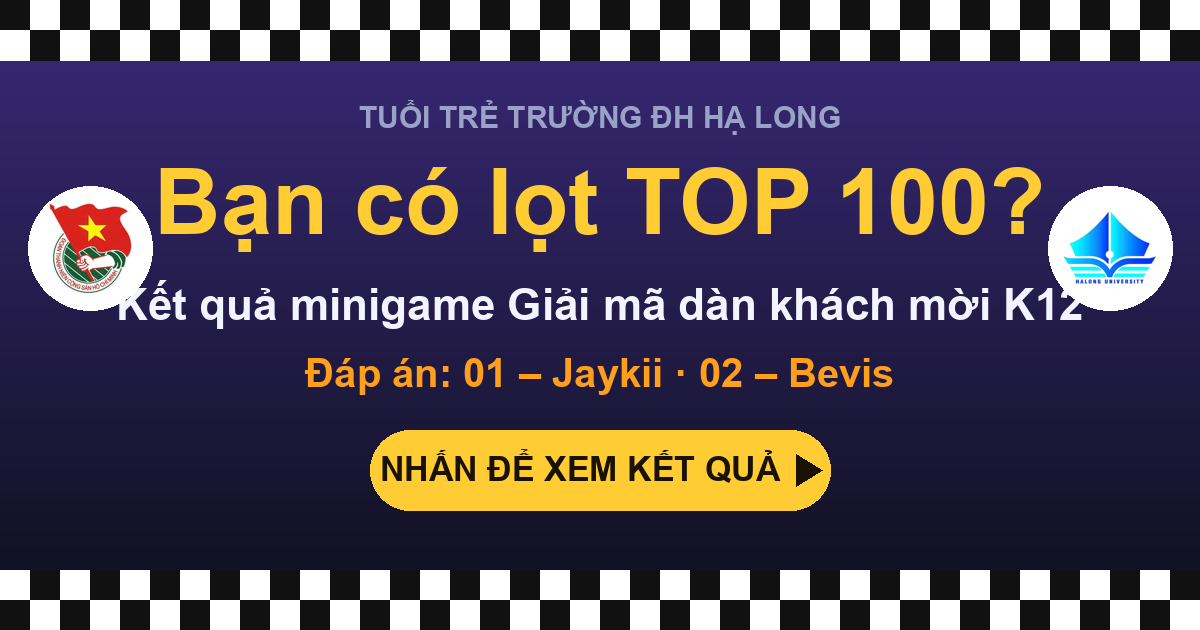
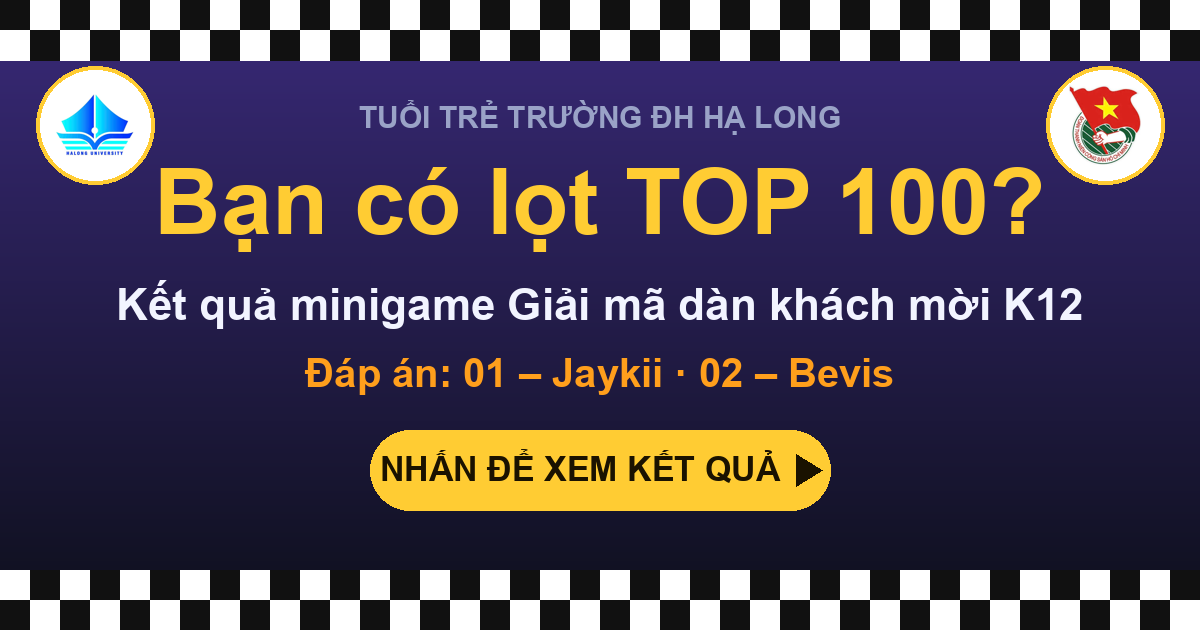
update

Changed region(s): [[0.8633, 0.0905, 0.9867, 0.5127], [0.0, 0.0905, 0.1542, 0.5127]]

diff --git a/app.js b/app.js
@@ -78,7 +78,7 @@
       ul.innerHTML = `<li class="empty">Không tìm thấy “${esc(q)}”. Thử nhập đúng tên Facebook hoặc dán link trang cá nhân nhé.</li>`;
       return;
     }
-    if (list.length === 1) { ul.innerHTML = ""; runRace(list[0]); return; }
+    if (list.length === 1) { ul.innerHTML = ""; $("#q").value = ""; runRace(list[0]); return; }
     ul.innerHTML = list.map((p) =>
       `<li><button type="button" data-slug="${esc(p.slug)}">${esc(p.name)} <small>fb.com/${esc(p.slug)}</small></button></li>`
     ).join("");
@@ -139,7 +139,6 @@
   async function runRace(p) {
     const token = ++raceToken;
     const alive = () => token === raceToken;
-    history.replaceState(null, "", `?u=${encodeURIComponent(p.slug)}`);
 
     $("#boardCard").classList.add("hidden");
     $("#result").innerHTML = "";
@@ -279,6 +278,16 @@
     })(performance.now());
   }
 
+  function showFriend(p) {
+    const verdict = p.rank && p.rank <= DATA.winners
+      ? `đã lọt <b>Top ${DATA.winners}</b> với hạng <b>#${p.rank}</b> 🏆`
+      : p.rank ? `về hạng <b>#${p.rank}</b>, chỉ tiếc chưa lọt Top ${DATA.winners}` : "đã thử vận may";
+    const box = $("#friend");
+    box.innerHTML = `<b>${esc(p.name)}</b> ${verdict}. Đến lượt bạn – nhập tên của bạn bên dưới!
+      <button type="button" class="ghost" data-slug="${esc(p.slug)}">Xem hiệu ứng của ${esc(p.name)}</button>`;
+    box.classList.remove("hidden");
+  }
+
   // ---------- Sự kiện ----------
   function bind() {
     $("#searchForm").addEventListener("submit", (e) => {
@@ -288,11 +297,15 @@
     });
     $("#matches").addEventListener("click", (e) => {
       const b = e.target.closest("button[data-slug]");
-      if (b) { $("#matches").innerHTML = ""; runRace(bySlug.get(b.dataset.slug)); }
+      if (b) { $("#matches").innerHTML = ""; $("#q").value = ""; runRace(bySlug.get(b.dataset.slug)); }
     });
     $("#board").addEventListener("click", (e) => {
       const li = e.target.closest("li[data-slug]");
       if (li) runRace(bySlug.get(li.dataset.slug));
+    });
+    $("#friend").addEventListener("click", (e) => {
+      const b = e.target.closest("button[data-slug]");
+      if (b) runRace(bySlug.get(b.dataset.slug));
     });
     $("#boardFilter").addEventListener("input", (e) => renderBoard(e.target.value));
     $("#result").addEventListener("click", async (e) => {
@@ -324,12 +337,13 @@
     renderStats();
     renderPodium();
 
-    // Link kết quả riêng (?u=<fb id>) hoặc ?q=<tên>: điền sẵn tên và chạy hiệu ứng
-    const params = new URLSearchParams(location.search);
-    const u = params.get("u");
-    const q = params.get("q");
-    const me = u && bySlug.get(u.toLowerCase());
-    if (me) { $("#q").value = me.name; runRace(me); }
-    else if (q) { $("#q").value = q; showMatches(search(q), q); }
+    // Mở từ link bạn bè chia sẻ (?u=<fb id>): chỉ giới thiệu kết quả của họ,
+    // ô tên luôn để trống để người vào tự nhập tên mình.
+    const u = new URLSearchParams(location.search).get("u");
+    const friend = u && bySlug.get(u.toLowerCase());
+    if (friend) showFriend(friend);
+    if (location.search) history.replaceState(null, "", location.pathname);
+    $("#q").value = "";
+    $("#q").focus({ preventScroll: true });
   })();
 })();

diff --git a/index.html b/index.html
@@ -28,8 +28,8 @@
   <header class="hero">
     <div class="flag-strip" aria-hidden="true"></div>
     <div class="logos">
-      <img src="img/logo-doan.png" alt="Đoàn TNCS Hồ Chí Minh" width="72" height="72">
       <img src="img/logo-truong.png" alt="Trường Đại học Hạ Long" width="72" height="72">
+      <img src="img/logo-doan.png" alt="Đoàn TNCS Hồ Chí Minh" width="72" height="72">
     </div>
     <p class="eyebrow">Tuổi trẻ Trường ĐH Hạ Long</p>
     <h1>Giải mã dàn khách mời <span class="k12">K12</span></h1>
@@ -40,6 +40,7 @@
   <main>
     <section class="card search-card" id="search">
       <h2>🏁 Bạn có lọt Top 100?</h2>
+      <div class="friend hidden" id="friend"></div>
       <p class="hint">Nhập tên Facebook hoặc dán link trang cá nhân của bạn</p>
       <form id="searchForm" autocomplete="off">
         <input id="q" type="search" placeholder="VD: Hoài Hoài  hoặc  facebook.com/ten.ban" aria-label="Tên hoặc link Facebook">

diff --git a/style.css b/style.css
@@ -72,6 +72,12 @@ footer .made {
 footer .made b { color: var(--gold); }
 
 /* ---------- Search ---------- */
+.friend {
+  margin: 4px 0 12px; padding: 12px 14px; border-radius: 12px; font-size: 14px; line-height: 1.5;
+  background: rgba(255, 204, 51, .1); border: 1px solid rgba(255, 204, 51, .4);
+}
+.friend b { color: var(--gold); }
+.friend button { display: block; margin-top: 8px; }
 form { display: flex; gap: 8px; }
 input[type=search] {
   flex: 1; min-width: 0; font: inherit; font-size: 16px; color: var(--text);
